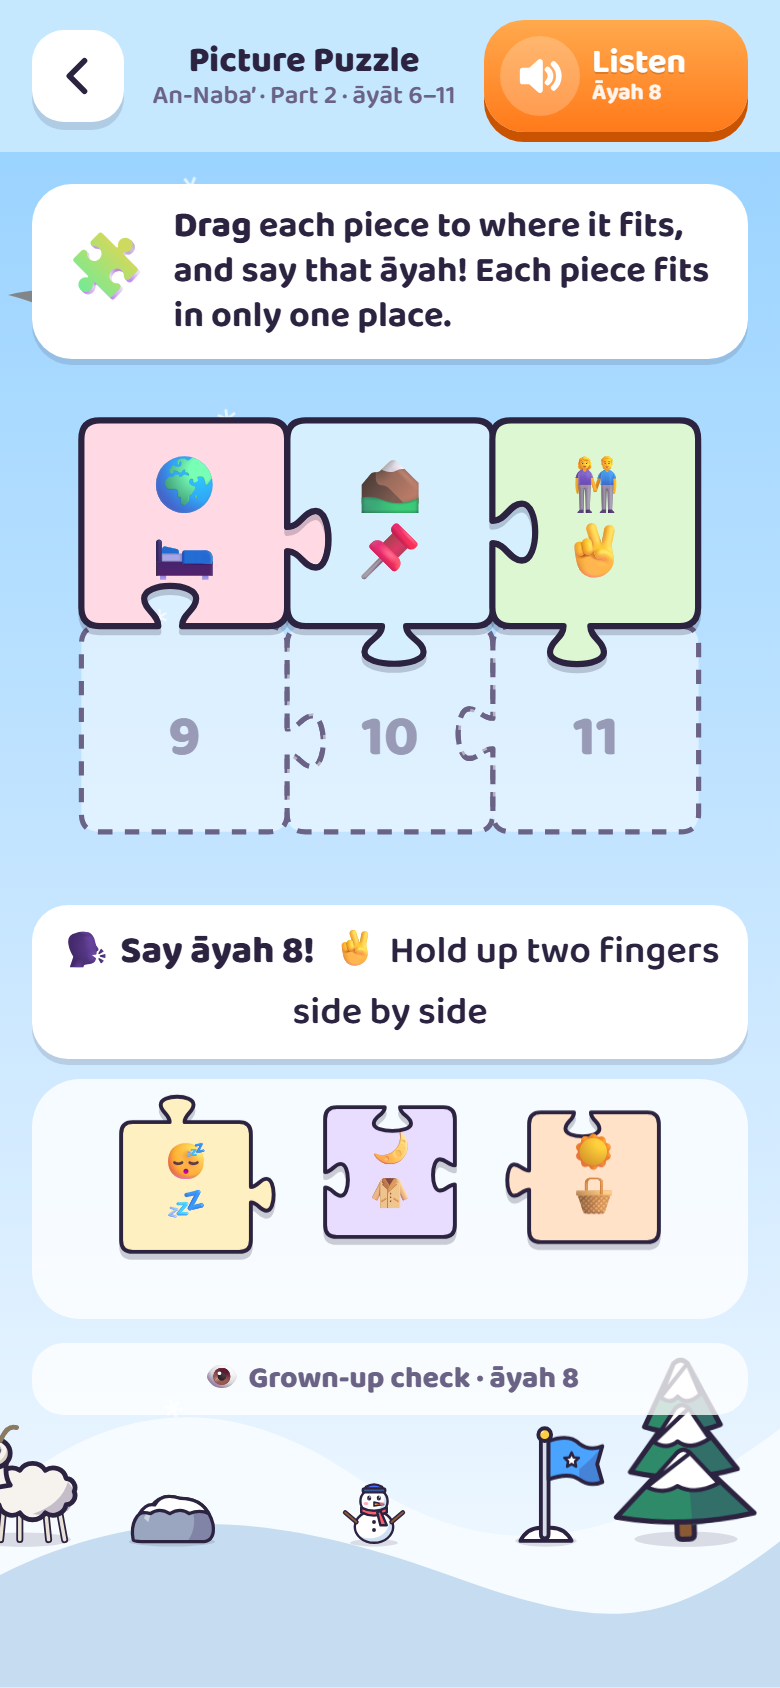
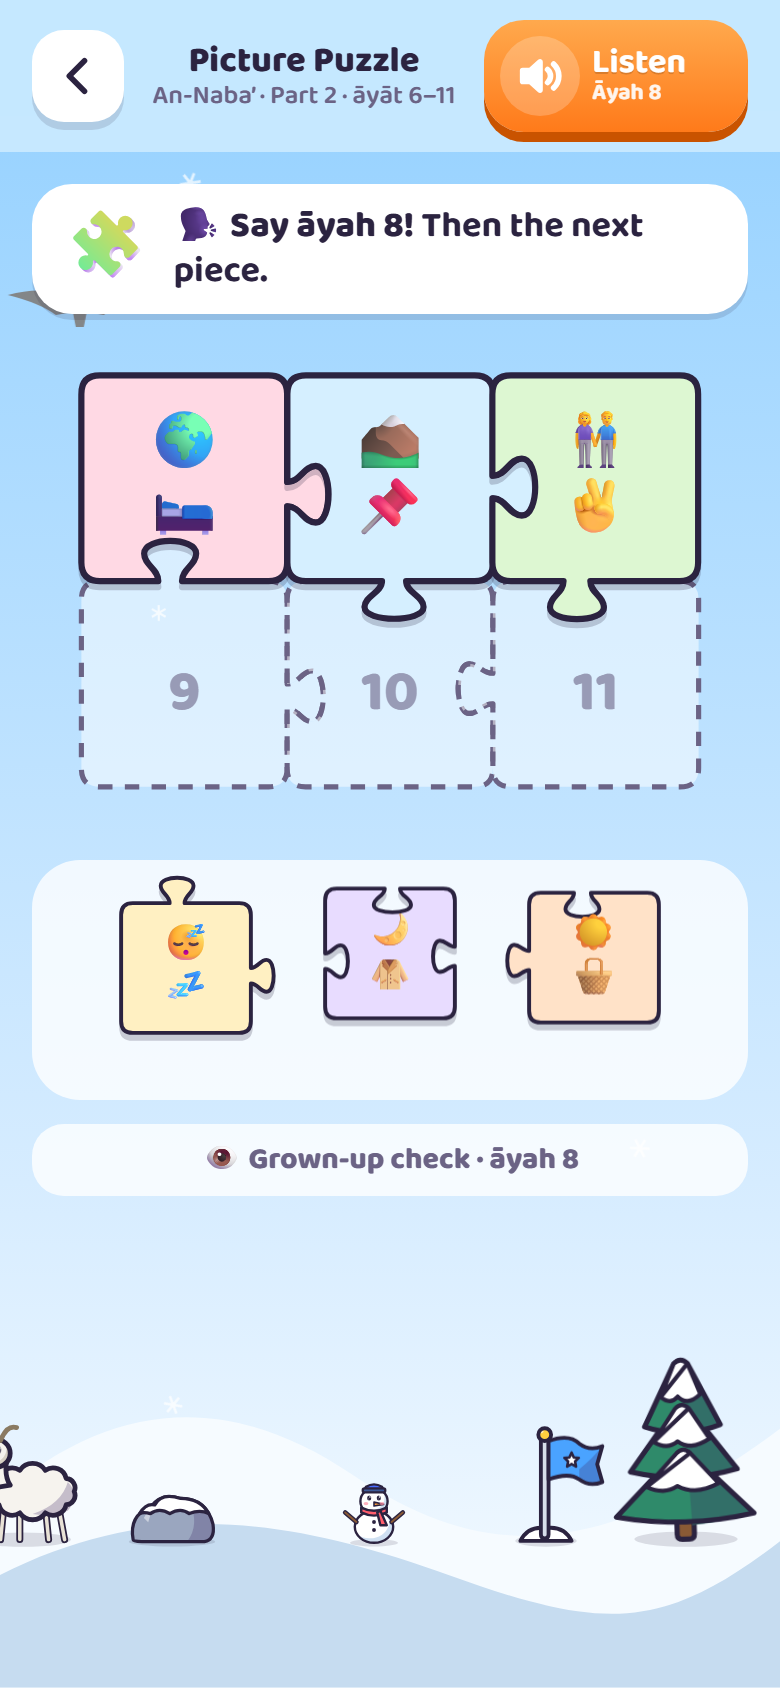
Little Hafiz Quest v2.4.4
- Picture Puzzle: "Say āyah …" now shows in the box above the puzzle;
  nothing pops up between the board and the pile
- Stepping Stones: the hint button reads "💡 Hint"
- A 1× play keeps its loop ring full (only counts down from 3× and up)
- Awards: no name under the explorer's feet
- The "Do it" actions start switched off (transliteration already did)
- World numbers on the map's world button and list are gold, unlike the
  sūrahs' dark number pills
- Grown-up Corner: "How to use it" moved into a ❓ button at the top,
  with the tips, the disclaimer and a link to report problems in the
  project's GitHub Issues
- README: problems-and-ideas section, updated text and screenshots

Claude-Session: https://claude.ai/code/session_01G32LazbMFB5CEeB9eK52fY

diff --git a/js/game.js b/js/game.js
@@ -37,7 +37,7 @@
 (function () {
   'use strict';
 
-  const VERSION = '2.4.3';
+  const VERSION = '2.4.4';
   const DATA = window.LHQ_DATA;
   if (!DATA || !Array.isArray(DATA.surahs)) throw new Error('Little Hafiz Quest: js/data.js did not load.');
   const ART = window.LHQ_ART;
@@ -187,7 +187,7 @@
     slow: false,
     reciter: 'alafasy',
     hearts: true,
-    actions: true,
+    actions: false, // the "Do it" actions start off (v2.4.4); grown-ups can switch them on
     fullscreen: false,
     pzrtl: false, // Picture Puzzle from right to left
   };
@@ -959,10 +959,11 @@
   }
   function loopRing() {
     // an almost full circle with a gap at the top; while looping, it empties one step per play
-    const left = loopRun ? Math.max(0, 1 - Math.floor(loopRun.played / loopRun.per) / loopRun.total) : 1;
+    const counting = loopRun && loopRun.total > 1; // a single play doesn't count down
+    const left = counting ? Math.max(0, 1 - Math.floor(loopRun.played / loopRun.per) / loopRun.total) : 1;
     const arc = (cls, len) => `<circle class="${cls}" cx="24" cy="24" r="18" pathLength="360" stroke-dasharray="${len} 400" transform="rotate(-60 24 24)"/>`;
-    const n = loopRun ? Math.max(1, loopRun.total - Math.floor(loopRun.played / loopRun.per)) : loopN; // plays left, counting down
-    return `<svg viewBox="0 0 48 48" aria-hidden="true">${arc('lr-track', 300)}${arc('lr-arc', (300 * left).toFixed(1))}${loopRun ? '' : '<path class="lr-tip" d="M14.8 12.1L17.8 6.9L11.8 6.8"/>'}<text x="24" y="28.6" text-anchor="middle">${n}×</text></svg>`;
+    const n = counting ? Math.max(1, loopRun.total - Math.floor(loopRun.played / loopRun.per)) : loopN; // plays left, counting down
+    return `<svg viewBox="0 0 48 48" aria-hidden="true">${arc('lr-track', 300)}${arc('lr-arc', (300 * left).toFixed(1))}${counting ? '' : '<path class="lr-tip" d="M14.8 12.1L17.8 6.9L11.8 6.8"/>'}<text x="24" y="28.6" text-anchor="middle">${n}×</text></svg>`;
   }
   function drawLoops() {
     document.querySelectorAll('.loopbtn').forEach((b) => {
@@ -1939,7 +1940,7 @@
       ${cl.pic ? sceneHTML(a) : `<div class="mystery-q">?</div>`}
       ${cl.pic ? gest(a) : ''}
       ${shown}
-      ${cl.full ? '' : '<button class="hintbtn" data-act="hint" aria-label="A hint: one more word">💡</button>'}
+      ${cl.full ? '' : '<button class="hintbtn" data-act="hint" aria-label="A hint: one more word">💡 Hint</button>'}
     </div>
     ${coach(prev ? `What comes after ${pics(prev)}? Say <b>āyah ${k + 1}</b>, then tap the frog!` : `Say <b>āyah ${k + 1}</b>, then tap the frog to hop!`, `<span class="frogico">${ART.frog()}</span>`)}
   </div>`;
@@ -2040,6 +2041,7 @@
     const outlines = J.cells
       .map((cl, j) => (st.placed[j] ? '' : `<g data-j="${j}" transform="translate(${cl.c * 100} ${cl.r * 100})"><path class="pz-hole" d="${cl.path}"/><text x="50" y="62" text-anchor="middle">${big ? j + 1 : range(ctx())[j] + 1}</text></g>`))
       .join('');
+    const saying = st.say != null ? items[st.say] : null;
     const slots = J.cells
       .map((cl, j) =>
         st.placed[j]
@@ -2049,16 +2051,25 @@
       .join('');
     const left = st.deck.filter((j) => !st.placed[j]);
     const full = !left.length;
-    const saying = st.say != null ? items[st.say] : null;
     return `<div class="screen" style="${cv(s.color)}">
     ${bar(big ? 'Big Puzzle' : 'Picture Puzzle', `${s.name}${big ? ' · whole sūrah' : multi(s) ? ' · ' + partLabel(s, st.p) : ''}`, 'surah')}
     ${heartsBar()}
-    ${coach(full ? 'All in place! 🎉' : st.sel != null ? 'Now tap the place where it fits!' : big ? 'Each checkpoint is a big piece. <b>Drag</b> them together in order!' : '<b>Drag</b> each piece to where it fits, and say that āyah! Each piece fits in only one place.', '🧩')}
+    ${coach(
+      full
+        ? 'All in place! 🎉'
+        : st.sel != null
+          ? 'Now tap the place where it fits!'
+          : saying
+            ? `🗣 <b>Say ${saying.label}!</b>${!big && prefs.actions ? ` ${s.ayat[saying.say[0]].gesture}` : ''} Then the next piece.`
+            : big
+              ? 'Each checkpoint is a big piece. <b>Drag</b> them together in order!'
+              : '<b>Drag</b> each piece to where it fits, and say that āyah! Each piece fits in only one place.',
+      '🧩',
+    )}
     <div class="pzboard ${full ? 'full' : ''}" style="aspect-ratio:${J.W}/${J.H}">
       <svg class="pz-holes" viewBox="${-PZ_M} ${-PZ_M} ${J.W} ${J.H}" aria-hidden="true">${outlines}</svg>
       ${slots}
     </div>
-    ${saying ? `<div class="say">🗣 Say ${saying.label}! ${!big && prefs.actions ? `&nbsp;<span style="font-weight:600">${s.ayat[saying.say[0]].gesture}</span>` : ''}</div>` : ''}
     <div class="deck pzdeck">${left.map((j) => `<div class="pcard pzt ${st.sel === j ? 'sel' : ''}" data-k="${j}" role="button" aria-label="Puzzle piece">${pieceSVG(J.cells[j].path, PZ_FILL[j % PZ_FILL.length])}<span class="pzbody">${items[j].html}</span></div>`).join('')}</div>
     ${saying && !big ? `<details class="adult"><summary>👁 Grown-up check · ${saying.label}</summary><div class="ar sm" lang="ar">${s.ayat[saying.say[0]].ar}</div></details>` : ''}
   </div>`;
@@ -2233,8 +2244,7 @@
       a = achievements(prof);
     return `<div class="screen showscr">
     ${bar('My Achievements', prof.name ? esc(prof.name) : 'Explorer', 'bag')}
-    <div class="show-stage"><button class="wd-ex" data-act="exmove" aria-label="Tap your explorer">${explorer({ view: 'front' })}</button>
-      <div class="show-name">${prof.name ? esc(prof.name) : 'Explorer'}</div></div>
+    <div class="show-stage"><button class="wd-ex" data-act="exmove" aria-label="Tap your explorer">${explorer({ view: 'front' })}</button></div>
     <div class="achgrid">${ACH_ROWS(a)
       .map(([ic, big, sub]) => `<div class="ach"><span class="ach-ic">${ic}</span><b>${big}</b><small>${sub}</small></div>`)
       .join('')}</div>
@@ -2358,7 +2368,7 @@
         `<div class="recrow ${r.id === prefs.reciter ? 'on' : ''}"><button class="recpick" data-act="reciter" data-id="${r.id}"><span class="rdot"></span><span>${esc(r.name)}<small>${esc(r.note)}${r.mb ? ` · ${r.mb} MB` : ''}</small></span></button><button class="icon-btn sm" data-act="sample" data-id="${r.id}" aria-label="Hear a sample">${ICON.play}</button></div>`,
     ).join('');
     return `<div class="screen">
-    ${bar('Grown-up Corner', `Settings · v${VERSION}`, st.back || 'splash')}
+    ${bar('Grown-up Corner', `Settings · v${VERSION}`, st.back || 'splash', '<button class="icon-btn helpbtn" data-act="help" aria-label="How to use it, and the disclaimer">❓</button>')}
     <div class="sheet">
       <h3>🧒 Explorers</h3>
       ${store.profiles
@@ -2413,19 +2423,6 @@
     <div class="sheet">
       <h3>🧭 Version</h3>
       <div class="setrow"><span>Little Hafiz Quest v${VERSION}<small>You can switch to the classic version any time</small></span><button class="btn small" data-act="versions">Change</button></div>
-    </div>
-    <div class="sheet">
-      <h3>📖 How to use it</h3>
-      <ol class="tips">
-        <li><b>Pick a step.</b> In each sūrah: the quest (Look &amp; Repeat, then Word Steps), then the review games (Stepping Stones, then the Picture Puzzle).</li>
-        <li><b>One checkpoint at a time.</b> Longer sūrahs are split into parts of a few āyāt. Then do the 🏁 whole sūrah.</li>
-        <li><b>Every level finished for the first time wins a gift.</b> One star wins a sūrah's treasure and is enough to move on. <b>Every star</b> in a sūrah wins a special golden edition of it. Each checkpoint crossed wins a little gift, and every few stars wins a prize from the star track (an astronaut set, kufis for boys, hijabs for girls, new hats, buddies and more). Memorized = Stepping Stones done.</li>
-        <li><b>The summit.</b> A star in every sūrah: the explorer climbs the mountain, and every treasure, every sticker and the Summit cloak are theirs. Three stars in every sūrah: the Hafiz crown. Every single star: the one-of-a-kind Golden hoopoe.</li>
-        <li><b>Revise any sūrah any time:</b> tap it on the map, or tap the 📖 / ⭐ counters at the top of the map to see every sūrah and jump straight in. In review games, tap “Not quite” when a mistake is made; a 💔 on the map shows where the hearts ran out.</li>
-        <li><b>5–10 minutes a day is plenty.</b> Stop while it's still fun; recite again at bedtime or in ṣalāh.</li>
-      </ol>
-      <div class="notice" role="note"><p>ℹ The pictures are memory hooks only, not literal images of the meaning. The simple meanings are written for young children; check a full tafsīr for detail.</p>
-      <p><b>Please check the Qur'an text and recitation</b> against a trusted muṣḥaf or teacher. They come from public sources and are not guaranteed to be free of mistakes.</p></div>
     </div>
   </div>`;
   };
@@ -2732,6 +2729,26 @@
     <p class="saveinfo" style="text-align:center">This can't be undone.</p>
     <div class="row"><button class="btn wide" data-act="cno">Cancel</button><button class="btn wide danger" data-act="cyes">${yesLabel}</button></div></div>`;
     m.classList.add('show');
+  }
+  /* How to use it: the tips, the disclaimer, and where to report a problem */
+  const REPO = 'https://github.com/akramali/little-hafiz-quest';
+  function showHelp() {
+    const m = document.getElementById('modal');
+    m.innerHTML = `<div class="card helpcard"><h3>📖 How to use it</h3>
+      <ol class="tips">
+        <li><b>Pick a step.</b> In each sūrah: the quest (Look &amp; Repeat, then Word Steps), then the review games (Stepping Stones, then the Picture Puzzle).</li>
+        <li><b>One checkpoint at a time.</b> Longer sūrahs are split into parts of a few āyāt. Then do the 🏁 whole sūrah.</li>
+        <li><b>Every level finished for the first time wins a gift.</b> One star wins a sūrah's treasure and is enough to move on. <b>Every star</b> in a sūrah wins a special golden edition of it. Each checkpoint crossed wins a little gift, every few stars wins a prize from the star track, and every 100 stars a star badge. Memorized = Stepping Stones done.</li>
+        <li><b>The summit.</b> A star in every sūrah: the explorer climbs the mountain, and every treasure, every sticker and the Summit cloak are theirs. Three stars in every sūrah: the Hafiz crown. Every single star: the one-of-a-kind Golden hoopoe.</li>
+        <li><b>Revise any sūrah any time:</b> tap it on the map, or tap the 📖 / ⭐ counters at the top of the map to see every sūrah and jump straight in. In review games, tap “Not quite” when a mistake is made; a 💔 on the map shows where the hearts ran out.</li>
+        <li><b>5–10 minutes a day is plenty.</b> Stop while it's still fun; recite again at bedtime or in ṣalāh.</li>
+      </ol>
+      <div class="notice" role="note"><p>ℹ The pictures are memory hooks only, not literal images of the meaning. The simple meanings are written for young children; check a full tafsīr for detail.</p>
+      <p><b>Please check the Qur'an text and recitation</b> against a trusted muṣḥaf or teacher. They come from public sources and are not guaranteed to be free of mistakes.</p></div>
+      <p class="saveinfo">Little Hafiz Quest is free and open source. Found a mistake or a bug, or have an idea? Please tell us in the project's <a href="${REPO}/issues" target="_blank" rel="noopener">Issues on GitHub</a>. The code: <a href="${REPO}" target="_blank" rel="noopener">github.com/akramali/little-hafiz-quest</a>.</p>
+      <div class="row"><button class="btn wide" data-act="cno">Close</button></div></div>`;
+    m.classList.add('show');
+    m.querySelector('.helpcard').scrollTop = 0;
   }
   function showBism() {
     const m = document.getElementById('modal');
@@ -3294,6 +3311,10 @@
         if (s) bismSaid = s.n;
         b.classList.remove('breathe');
         showBism();
+        break;
+      case 'help':
+        sfx.tap();
+        showHelp();
         break;
       case 'bismplay':
         playList([[1, 1]], { once: true });

diff --git a/css/game.css b/css/game.css
@@ -2739,8 +2739,9 @@ body.v-map::after {
   min-width: 20px;
   height: 20px;
   border-radius: 99px;
-  background: var(--ink);
-  color: var(--card);
+  /* gold, so a world's number never looks like a sūrah's number (dark pills on the map) */
+  background: var(--gold2);
+  color: #2b2340;
   font-size: 12px;
   font-weight: 800;
   display: grid;
@@ -6154,15 +6155,6 @@ body {
   width: auto;
   aspect-ratio: 2 / 3;
 }
-.show-name {
-  margin-top: -6px;
-  padding: 2px 18px;
-  border-radius: 99px;
-  background: var(--card);
-  box-shadow: 0 3px 0 var(--shd);
-  font-weight: 800;
-  font-size: 20px;
-}
 .achgrid {
   display: grid;
   grid-template-columns: 1fr 1fr;
@@ -6352,4 +6344,41 @@ body {
 }
 .wd-side.wd-show {
   right: 3%;
+}
+
+/* ---------- v2.4.4 ---------- */
+.hintbtn {
+  width: fit-content;
+  height: 40px;
+  padding: 0 16px;
+  border-radius: 99px;
+  font-size: 16px;
+  font-weight: 800;
+  color: #6b4d00;
+  gap: 4px;
+  display: flex;
+  align-items: center;
+}
+/* the worlds' numbers in the list are gold too (a finished world's stays green) */
+.wr-n {
+  background: var(--gold2);
+  color: #2b2340;
+}
+/* How to use it: a scrolling card */
+.helpcard {
+  text-align: left;
+  max-height: calc(100vh - 40px);
+  max-height: calc(100dvh - 40px);
+  overflow-y: auto;
+  overscroll-behavior: contain;
+}
+.helpcard a {
+  color: #3d7be0;
+  font-weight: 800;
+}
+.helpbtn {
+  font-size: 24px;
+}
+.helpcard h3 {
+  text-align: center;
 }

diff --git a/sw.js b/sw.js
@@ -14,7 +14,7 @@
  */
 'use strict';
 
-const VERSION = '2.4.3';
+const VERSION = '2.4.4';
 const SHELL_CACHE = `lhq2-shell-${VERSION}`;
 const AUDIO_CACHE = 'lhq2-audio'; // keep across app updates; change only if the audio files change
 const DATA_CACHE = 'lhq2-data'; // small lists that can change between versions (reciters, versions)

diff --git a/README.md b/README.md
@@ -53,9 +53,9 @@ Free, no ads, no accounts, no tracking. It works on iPhone, iPad, Android, and c
 1. **Make an explorer.** Tap **Begin**, pick a name, boy or girl, a skin tone, a hair style (boys and girls each have seven, bald included) and a hair color (girls can also choose a hijab and its color). Girls wear the crowns as tiaras. Each child can have their own explorer, with their own stars and treasures (tap the name on the start screen). Explorers can be removed in the Grown-up Corner, all of them if you like; Begin then makes a new one.
 2. **Walk the map.** Start at 🚩 An-Nās at the bottom and climb. Tap a sūrah: the explorer pops up beside it, walks in, and the lesson opens. Each sūrah's page has a 🌙 **Bismillah** button that gently breathes when you arrive, a reminder to say Bismillah first, and a 📖 **Read** button for children who can read the muṣḥaf: the whole sūrah in Arabic. There, hold an āyah to color its words in the same order as Word Steps, and Listen plays the whole sūrah or just the chosen āyah. Each world has its own border to cross (a river, the sea, a gorge, a gate, the clouds, a frozen river), and the scenery on the horizon changes as you climb. The 🗺 button under the settings button opens the list of worlds to jump between them. You can go back to any sūrah at any time to revise.
 3. **Pick a step** in each sūrah. The quest comes first (Look & Repeat, then Word Steps), then the review games (Stepping Stones, then the Picture Puzzle). Each checkpoint has 4 stars, one for each:
-   1. **👀 Look & Repeat.** Read the āyah. Your child repeats it three times while doing the action (pop a bubble each time), then says it with only the picture showing. The loop button at the top of the āyah sets how many times Listen plays it: once, 3, 10 or 99 times (until Stop); its ring empties and the number counts down as the plays go by. After each new āyah, chain from the first āyah up to the new one. Tap the numbered dots at the top to practice any āyah in that part. The “Do it” actions can be switched off in the Grown-up Corner. Progress is saved āyah by āyah, so you can stop and carry on later.
+   1. **👀 Look & Repeat.** Read the āyah. Your child repeats it three times while doing the action (pop a bubble each time), then says it with only the picture showing. The loop button at the top of the āyah sets how many times Listen plays it: once, 3, 10 or 99 times (until Stop); its ring empties and the number counts down as the plays go by. After each new āyah, chain from the first āyah up to the new one. Tap the numbered dots at the top to practice any āyah in that part. The “Do it” actions (a hand movement for each āyah) start switched off; switch them on in the Grown-up Corner. Progress is saved āyah by āyah, so you can stop and carry on later.
    2. **Word Steps.** Build the āyah one word at a time, always going back to the first word, with the āyah's picture at the top. Tap any word to hear just that word. Then your child says it all while you reveal each word; every colored box stays exactly where it was while practicing.
-   3. **🐸 Stepping Stones** (review game). Your child says each āyah from its picture and taps the frog to hop. The 💡 hint shows one more word at each tap, then the whole āyah to hear. Finishing it means the sūrah (or, for a long one, its 🏁 whole-sūrah Stepping Stones) is memorized. The stones lie in each world's own scenery (lily pads on a pond, ice floes between snowbanks…). Long runs show ten stones at a time; swipe to see the others, and the frog hops on to the next set by itself.
+   3. **🐸 Stepping Stones** (review game). Your child says each āyah from its picture and taps the frog to hop. The 💡 Hint button under the āyah shows one more word at each tap, then the whole āyah to hear. Finishing it means the sūrah (or, for a long one, its 🏁 whole-sūrah Stepping Stones) is memorized. The stones lie in each world's own scenery (lily pads on a pond, ice floes between snowbanks…). Long runs show ten stones at a time; swipe to see the others, and the frog hops on to the next set by itself.
    4. **🧩 Picture Puzzle** (review game): a jigsaw where each āyah is a piece that fits in only one place (left to right, or right to left in the Grown-up Corner). In a long sūrah, once every checkpoint's puzzle is done, the 🏁 whole sūrah has a **Big Puzzle**: each checkpoint becomes one big piece to fit together.
 4. **Hearts.** Once a part has been learned, the review games (Stepping Stones and the Picture Puzzle) have 3 hearts, plus one more for each finished world (a star in every sūrah of it), up to 5. A wrong pick, or the grown-up tapping **Not quite**, costs a heart. Losing them all drops the explorer's newest treasure at that sūrah, puts a 💔 on it on the map, and leaves the explorer a little sad and scruffy. Finishing a review game there fixes it: the treasure flies back on and the explorer smiles again. You can switch hearts off in the Grown-up Corner.
 5. **Gifts.** One star is enough to move on, and **every level finished for the first time wins a gift**.
@@ -72,7 +72,7 @@ Longer sūrahs are split into checkpoints of a few āyāt; finish the checkpoint
 
 Five to ten minutes a day is plenty. Stop while it's still fun.
 
-The orange **Listen** button at the top plays the recitation of what's on screen; it turns golden while playing. In the Grown-up Corner (⚙) you can choose the reciter (Mishary Alafasy, Al-Husary's slow teaching recitation, Al-Minshawi or Abdul Basit), turn the nature sounds on or off (soft water drops, birdsong and a breeze as you play, quieter while the reciter plays), hearts, the “Do it” actions, fullscreen (hides the browser's address bar where the browser allows it; on iPhone, use Add to Home Screen instead), a dim night theme, simple meanings or transliteration, repeat or slow down the recitation, the Picture Puzzle's direction, and manage explorers: add, remove, reset, and save or load a progress file.
+The orange **Listen** button at the top plays the recitation of what's on screen; it turns golden while playing. In the Grown-up Corner (⚙) you can choose the reciter (Mishary Alafasy, Al-Husary's slow teaching recitation, Al-Minshawi or Abdul Basit), turn the nature sounds on or off (soft water drops, birdsong and a breeze as you play, quieter while the reciter plays), hearts, the “Do it” actions (off at first), fullscreen (hides the browser's address bar where the browser allows it; on iPhone, use Add to Home Screen instead), a dim night theme, simple meanings or transliteration (off at first), repeat or slow down the recitation, the Picture Puzzle's direction, and manage explorers: add, remove, reset, and save or load a progress file. The ❓ button at its top right has these tips, the disclaimer, and a link for reporting problems.
 
 A sūrah's recitation downloads the first time it plays and is then kept on the device; long sūrahs (about 1–3 MB) ask first. Tapping a word in Word Steps plays just that word: the cut between words sits at the quietest moment between them.
 
@@ -160,6 +160,10 @@ Then open http://localhost:8000/. Use this rather than `python3 -m http.server`,
 **After any change:** bump `VERSION` in `sw.js` (and in `js/game.js`, which is shown in settings). Installed copies then pick up the new version on their next visit.
 
 **Branches and deploy:** `main` is the newest version; `v1` is the classic version, kept on its own branch so it can still get fixes. The workflow in `.github/workflows/pages.yml` publishes `main` at the site root and `v1` in the `v1/` folder (GitHub Pages source: *GitHub Actions*). Pushing to either branch republishes the site within a few minutes. To add a version later, add its branch to the workflow and to `versions.json`; to retire one, remove it from both.
+
+## Problems and ideas
+
+Found a mistake in the text or the recitation, a bug, or have an idea? Please [open an issue](https://github.com/akramali/little-hafiz-quest/issues). The ❓ in the game's Grown-up Corner links there too.
 
 ## Disclaimer
 
